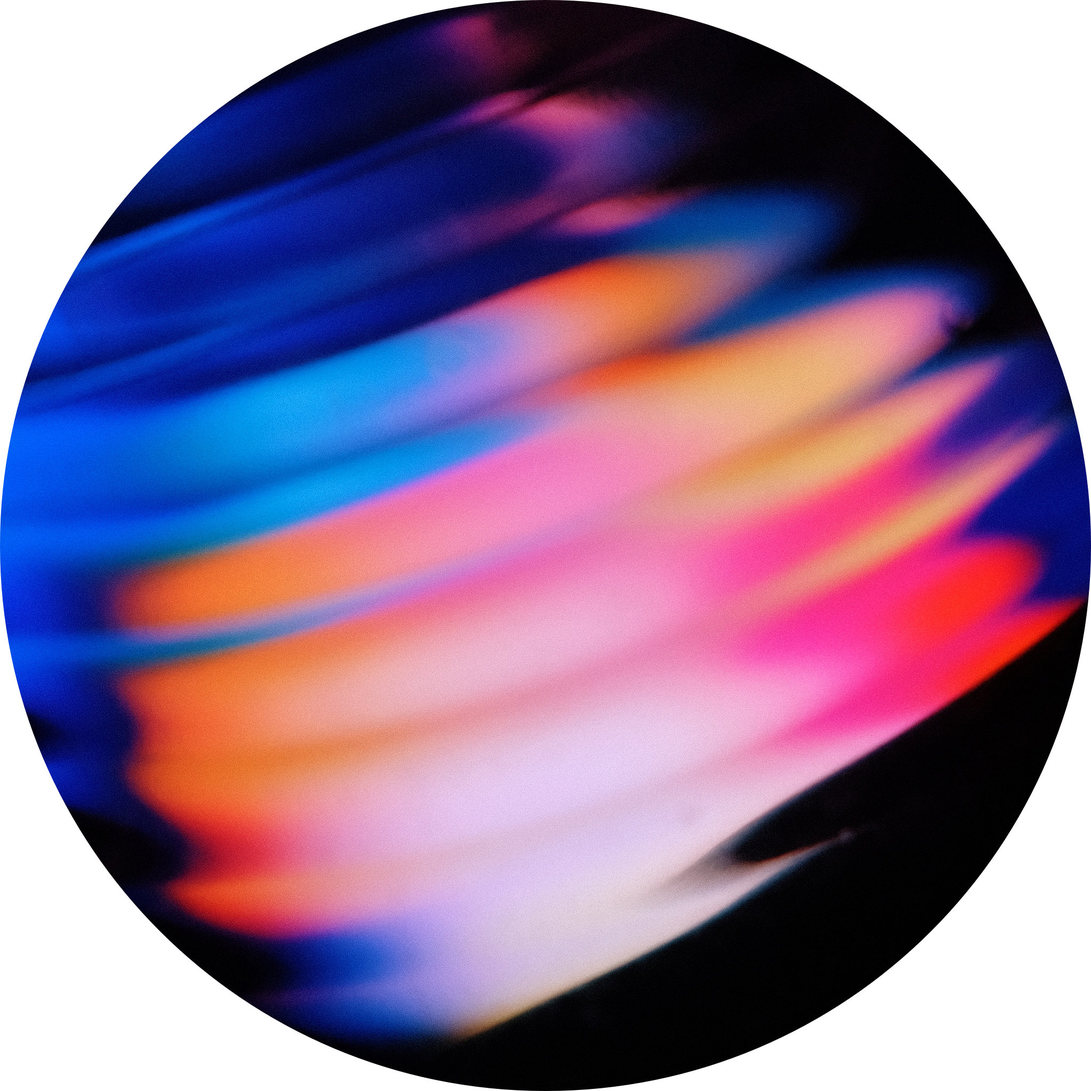
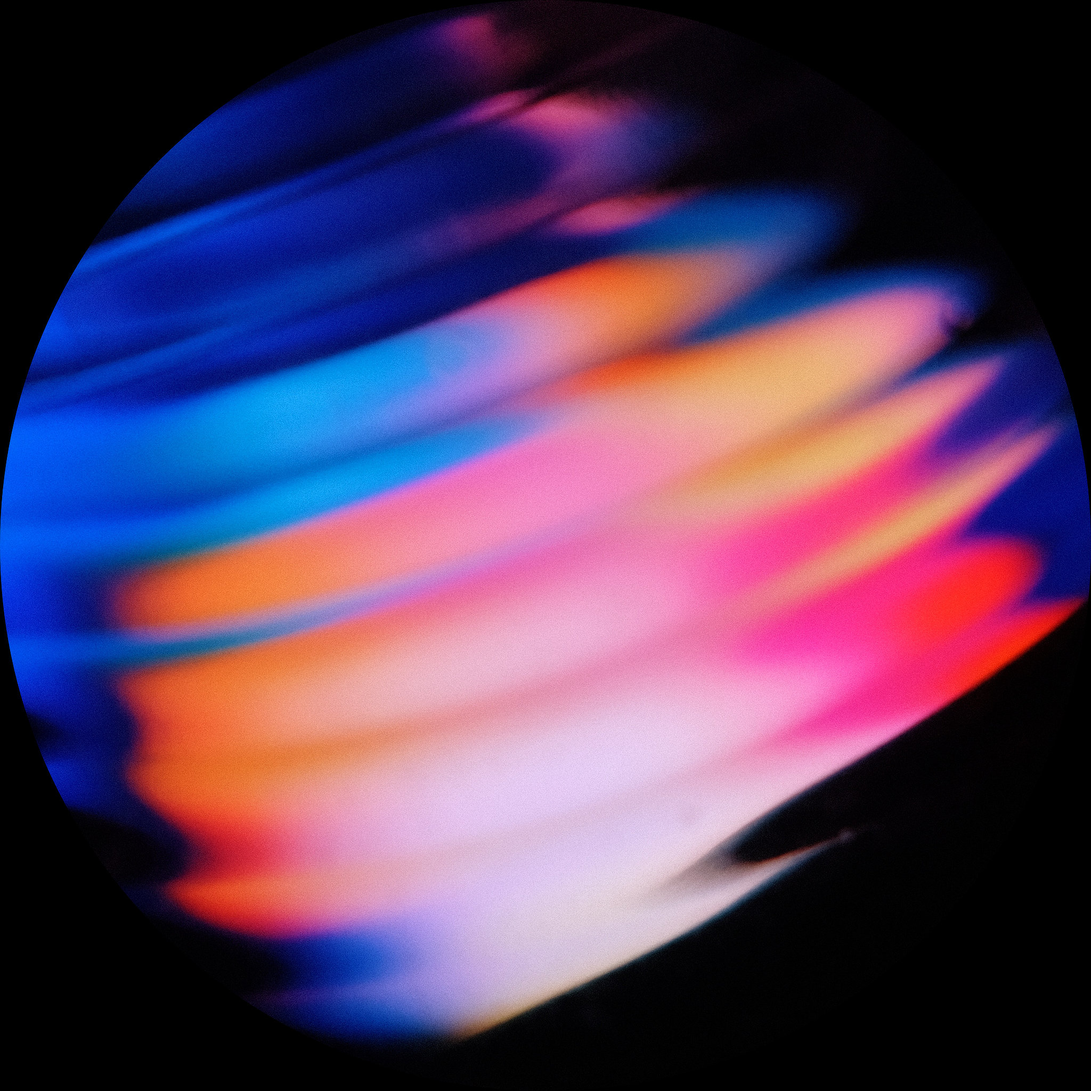
Change to dark scheme

diff --git a/css/main.css b/css/main.css
@@ -11,7 +11,8 @@ body {
   font-weight: bold;
   line-height: 1.25em;
   letter-spacing: -0.02em;
-  color: #000000;
+  background-color: #000000;
+  color: #e6e6e6;
   margin: 0;
 }
 
@@ -60,13 +61,13 @@ td {
   width: 2.5em;
   height: 2.5em;
   text-align: center;
-  background-color: #f0f0f0;
+  background-color: #1a1a1a;
   border-radius: 50%;
   margin: 0 1.125em -0.625em -0.625em;
 }
 
 .social-selector:hover {
-  background-color: #e0e0e0;
+  background-color: #343434;
 }
 
 .social-icon {
